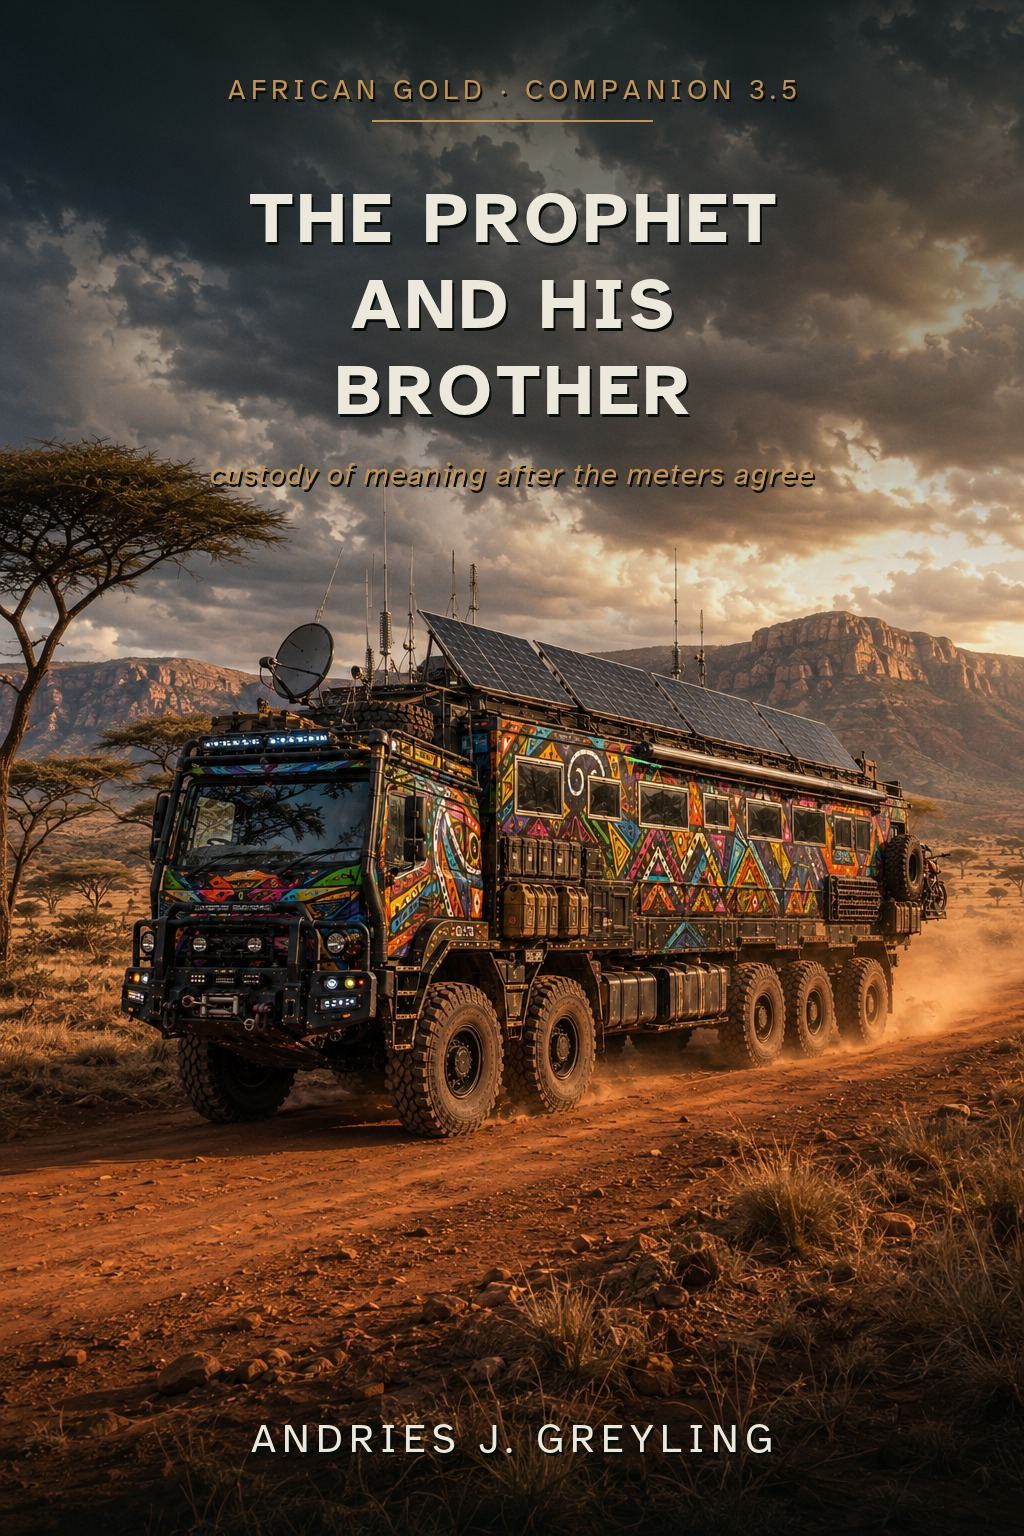
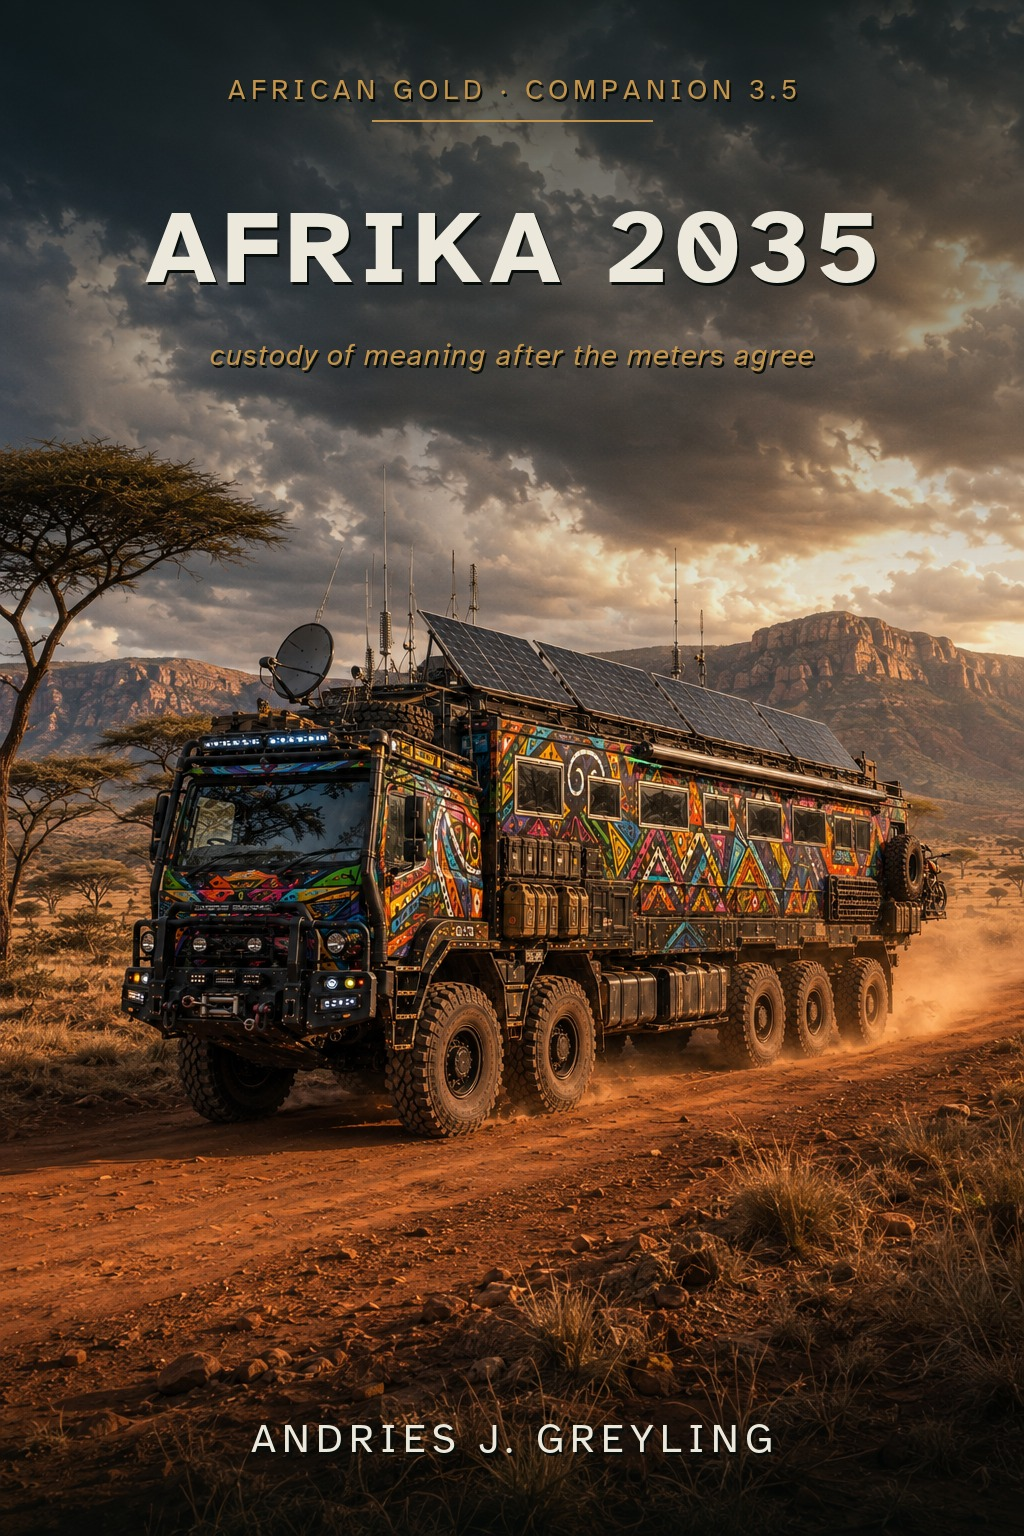
retitle: The Prophet and his Brother -> Afrika 2035
Author decision. The old phrase now names the book's relation — G the prophet,
AJ the brother — rather than the book.

CORRECTS THE RECORD: cd565b0's message claimed "*Afrika 2035* stayed a working
title and never reached the deliverable's metadata." The file observation behind
that was true (dc:title still reads the old name) but the conclusion drawn from
it — that the retitle had been abandoned — was an inference about intent, and it
was wrong. The retitle is real; the exports had simply not caught up.

Scope — display title only. The id/slug stays `the-prophet-and-his-brother` by
author decision, so no live URL, download path or inbound link breaks. The old
name therefore persists in paths by design, not by drift.

  site/build.py     CURATED title, series blurb, living-person care note
  project.json      title/working_title; retitle + slug rationale in notes
  README.md         retitled, with the export caveat below stated up front
  canon (10 files)  headers + C-01 title lock, which now records the change
  afrika-2100 (8)   downstream refs — this book is its declared upstream soil
  cover             re-rendered as AFRIKA 2035

Two things deliberately NOT renamed:

1. Bare "Prophet". In canon it also names G the character ("Prophet soil rule"),
   so only the full italicised title was replaced — never the bare word.
2. The EPUB/PDF. Left wholly on the old title — filename, dc:title and internal
[…]

Changed region(s): [[0.125, 0.125, 0.875, 0.3438], [0.7188, 0.2812, 0.7812, 0.3438]]

diff --git a/site/build.py b/site/build.py
@@ -714,7 +714,7 @@ SERIES = [
 # the house voice; keyed by the SERIES name. Absent name => no tagline (heading only).
 SHELF_TAGLINE = {
     "Captain Gideon Loots": "⚠ For adult readers. Cape crime — a disgraced detective and the charming men he understands too well.",
-    "The African Gold Trilogy": "Resonance, Revelation, Relic — plus Companion 3.5 (*The Prophet and his Brother*, 2035) and the spiritual fourth (*AFRIKA 2100*).",
+    "The African Gold Trilogy": "Resonance, Revelation, Relic — plus Companion 3.5 (*Afrika 2035*) and the spiritual fourth (*AFRIKA 2100*).",
     "History Before Time": "Novelised ancient mysteries, one continent per book — the ancients were brilliant, and they were ours.",
     "Not a Potato": "Anomalies told straight: the official story, the one hole in it, and the wink.",
     "The Unheard": "Displaced and overlooked living peoples, told in the spirit of the road — each culture researched and named with care, sacred matter kept at the threshold; community sensitivity readers are warmly invited to write to us.",
@@ -761,7 +761,7 @@ BOOK_TAGLINE = {
 # own front matter (henry-sugar, the-dreaming, no-fear-cycle) don't need an entry here.
 BOOK_NOTICE = {
     "the-prophet-and-his-brother": (
-        "<strong>Living-person care.</strong> <em>The Prophet and his Brother</em> draws "
+        "<strong>Living-person care.</strong> <em>Afrika 2035</em> draws "
         "Andries J. Greyling and Gerhard van Niekerk as fiction principals from life. "
         "Public record binds where cited (including the assassination of Bouwer van Niekerk, "
         "Saxonwold, 5 September 2025 — named as wound, not solved as plot). Private pain stays "
@@ -897,7 +897,7 @@ CURATED = [
     ("relic", "RELIC", "The African Gold Trilogy · Book III", "The African Gold Trilogy",
      "relic", "build/export",
      "An engineer reads an ancient machine and must decide who may switch it on. The cinematic capstone of the trilogy."),
-    ("the-prophet-and-his-brother", "The Prophet and his Brother",
+    ("the-prophet-and-his-brother", "Afrika 2035",
      "An African Gold Companion · Book 3.5 · 2035", "The African Gold Trilogy",
      "the-prophet-and-his-brother", "build/export",
      "Between RELIC and AFRIKA 2100: on the Chobe in 2035, AJ writes the autobiography of G while Lucid has made that degree-less ignored physicist famous and crashed the AI GPU bubble — a book within a book under four-quarter weather, hyperscaler salvage frost, and the Kind sentence on the walls."),

diff --git a/books/the-prophet-and-his-brother/design/make_cover.py b/books/the-prophet-and-his-brother/design/make_cover.py
@@ -1,5 +1,7 @@
 #!/usr/bin/env python3
-"""Typeset *The Prophet and his Brother* cover from design/cover-plate.png.
+"""Typeset the *Afrika 2035* cover from design/cover-plate.png.
+
+Retitled 2026-08-13 (was *The Prophet and his Brother*).
 
 Eyebrow + title + author on river/Mutatus plate. Writes design/cover.{png,jpg}
 and build/export/cover.{png,jpg}.
@@ -88,12 +90,19 @@ def main() -> None:
     rule_y = int(H * 0.05) + 44
     draw.line([(cx - 140, rule_y), (cx + 140, rule_y)], fill=ACCENT, width=2)
 
-    f_title = font(ATK_BOLD, 72)
-    lines = ["THE PROPHET", "AND HIS", "BROTHER"]
-    ty = int(H * 0.12)
-    lh = 86
+    # Single-line title, matching its shelf sibling AFRIKA 2100. Auto-fit so the
+    # line always clears the margins rather than trusting a hand-tuned size.
+    lines = ["AFRIKA 2035"]
+    size, tracking = 104, 6
+    while size > 40:
+        f_title = font(ATK_BOLD, size)
+        if max(text_width(draw, ln, f_title, tracking) for ln in lines) <= W * 0.84:
+            break
+        size -= 2
+    ty = int(H * 0.13)
+    lh = int(size * 1.2)
     for i, ln in enumerate(lines):
-        draw_tracked(draw, cx, ty + i * lh, ln, f_title, 4, INK)
+        draw_tracked(draw, cx, ty + i * lh, ln, f_title, tracking, INK)
 
     f_tag = font(ATK_ITAL, 30)
     draw_tracked(

diff --git a/books/the-prophet-and-his-brother/canon/CANON_CHOICES.md b/books/the-prophet-and-his-brother/canon/CANON_CHOICES.md
@@ -1,4 +1,4 @@
-# Canon Choices — *The Prophet and his Brother*
+# Canon Choices — *Afrika 2035*
 
 > **LOCKED** = binding. **OPEN** = may not be written as fact until closed.
 > AFRIKA 2100 rewrite is downstream — do not consult old 2100 locks for this book.
@@ -7,7 +7,7 @@
 
 ## LOCKED
 
-- **C-01 · Title & year.** Title **LOCKED:** *The Prophet and his Brother*; story year **2035**. Former working title *The Four Quarters* retained as the name of the schism engine only (C-04 — the four camps).
+- **C-01 · Title & year.** Title **LOCKED:** *Afrika 2035*; story year **2035**. Retitled 2026-08-13 from *The Prophet and his Brother*, which now names the book's relation (G the prophet, AJ the brother) rather than the book. Earlier working title *The Four Quarters* retained as the name of the schism engine only (C-04 — the four camps). Note the deliberate shelf rhyme with *AFRIKA 2100*, the spiritual fourth: same continent, sixty-five years apart.
 - **C-02 · POV.** Dual **close third** on the outer novel. Two threads only as principals: **AJ** (Andries J. Greyling) and **G** (Gerhard van Niekerk). **AJ is the main subject of the book** — the A-thread gravity. No omniscient overview of the schism; the quarters are encountered through what each man sees, hears, and refuses.
 - **C-02b · Book within a book.** Formal structure, binding: the outer novel is AJ on the Chobe in 2035; inside it runs **the autobiography of G** — the manuscript AJ is writing, which is **the pages of G’s life and work**. Effectively **a book within a book**. The reader receives both: river-desk present (outer) and life/work pages (inner). The inner book is not a paste of Artist’s Proofs; it is autobiography — lived years, desks, kill switches, the ignored shelf, the Constant landing — under AJ’s hand, with Lucid in the choir. AJ does not vanish into ghostwriter anonymity: he remains the main subject of *this* novel while authoring *that* one. The braid: **AJ writes the life; G lives the weather of having a life written** (and of the fame Lucid’s open attribution already caused).
 - **C-02c · How the inner book appears.** Inner-autobiography sections are typographically / structurally distinct from outer AJ present (chapter heads, manuscript cues, or clear section breaks — house craft, not gimmick). Outer AJ may be caught mid-sentence of the inner book; the next section may *be* that page. G’s present-tense schism weather may still appear as outer close third on G (co-principal under pressure) **or** bleed through what AJ is writing that day — lock mix in O-14. Default lean: **both** — outer G-present for 2035 weather; inner autobiography for life-and-work deep pages.

diff --git a/books/the-prophet-and-his-brother/README.md b/books/the-prophet-and-his-brother/README.md
@@ -1,24 +1,35 @@
-# The Prophet and his Brother
+# Afrika 2035
 
 Near-future novel (2035). Book within a book: AJ on the Chobe writes G’s autobiography while the planet splits into four weathers around the man who derived **G**.
 
-Former working title: *The Four Quarters* — kept as the name of the schism engine (the four camps).
+**Retitled 2026-08-13** from *The Prophet and his Brother* — that phrase now names the book's
+relation (G the prophet, AJ the brother), not the book. Earlier working title *The Four Quarters*
+is kept as the name of the schism engine (the four camps).
+
+The **id/slug stays `the-prophet-and-his-brother`** by author decision, so no live URL breaks.
+Expect the old name in paths, the download folder and the export filenames; that is deliberate,
+not drift.
 
 ## Status
 
 **PUBLISHED** as **African Gold Companion · Book 3.5** (between RELIC and AFRIKA 2100) · ~90k ·
 live on arjunabadger.press.
 
-Briefly held (`3e773bf`, 2026-08-13) for a retitle to *Afrika 2035* and a re-edit, then released
-the same day by explicit author decision once the re-edited exports landed. The title did not
-change — *Afrika 2035* stayed a working title. `WORKSHOP_HOLD` is now empty; re-adding the id is
-the one-line way to pull the book dark again (then run the full deploy loop — nothing changes on
-the live site until Render redeploys).
+Briefly held (`3e773bf`, 2026-08-13) for the retitle and a re-edit, then released the same day by
+explicit author decision once the re-edited exports landed. Note that hold never reached
+production — it was committed but no deploy followed, so the book stayed publicly downloadable
+throughout. `WORKSHOP_HOLD` is now empty; re-adding the id is the one-line way to pull the book
+dark (then run the full deploy loop — nothing changes live until Render redeploys).
 
 Deliverables (the 2026-08-13 02:48 rebuild — post-edit):
-- `build/export/The Prophet and his Brother.epub`
-- `build/export/The Prophet and his Brother.pdf`
-- `build/export/cover.png`
+- `build/export/The Prophet and his Brother.epub` ⚠ old title in filename **and** in `dc:title`
+- `build/export/The Prophet and his Brother.pdf` ⚠ same
+- `build/export/cover.png` — retitled *AFRIKA 2035*
+
+⚠ **The exports are not retitled.** They are left wholly on the old title — filename, `dc:title`
+and internal title page together — rather than half-renamed, so the artifact stays self-consistent
+until it can be rebuilt. `arjuna-badger-platform/books/the-prophet-and-his-brother` does not exist,
+so a plain engine resync will not do it; the 02:48 build's origin needs tracking down first.
 
 ## Read first (canon)
 

diff --git a/books/afrika-2100/canon/TIMELINE.md b/books/afrika-2100/canon/TIMELINE.md
@@ -13,7 +13,7 @@
 |---|---|
 | 2026 | **G publishes the 420 Code**, copyleft. Ignored by mainstream; adopted at edges. |
 | ~2027–2029 | **Trilogy events** (RESONANCE → REVELATION → RELIC). Priya at the switch; instrument at Brotherhood-tended threshold, understood first. Public record thin. |
-| **2035** | ***The Prophet and his Brother.*** 420 Code worldwide as unified theory; Constant G converging in CODATA. AJ on Chobe in Mutatus Maximus; Lucid (integer, no GPU) open-attributed to 420 algorithms — fame as beam. Four Quarters weather; Kind paint (***Don’t be a cunt — be kind***); CongoSky already embodied the ethic as ops. Consent week: CongoNet keep · Lucid unbound · autobiography ships under **partial** rails; G refuses crowns / keyring-sacrament; weather undefeated. |
+| **2035** | ***Afrika 2035.*** 420 Code worldwide as unified theory; Constant G converging in CODATA. AJ on Chobe in Mutatus Maximus; Lucid (integer, no GPU) open-attributed to 420 algorithms — fame as beam. Four Quarters weather; Kind paint (***Don’t be a cunt — be kind***); CongoSky already embodied the ethic as ops. Consent week: CongoNet keep · Lucid unbound · autobiography ships under **partial** rails; G refuses crowns / keyring-sacrament; weather undefeated. |
 | 2030s–2050s | Quiet dissemination of Assist/Guardian → storage; G’s stack through Global South; Court lineage under consent doctrine. Kind practice spreads; soft churches begin putting faces above the sentence (saint-hunger fossil begins). |
 | 2043 | Personhood Recognition Act (SA first). |
 | **2058** | **G dies**, Eastern Cape — respected in field, not yet civilisation-saint. Crowns he refused start returning as myth. |

diff --git a/books/afrika-2100/canon/STORY_BIBLE.md b/books/afrika-2100/canon/STORY_BIBLE.md
@@ -1,6 +1,6 @@
 # Story Bible — AFRIKA 2100
 
-> Binding architecture. Rebuilt from *The Prophet and his Brother* soil. Other canon files
+> Binding architecture. Rebuilt from *Afrika 2035* soil. Other canon files
 > elaborate; open items live in [`CANON_CHOICES.md`](CANON_CHOICES.md). Where Prophet and the
 > old 2100 draft conflict, **Prophet soil wins** unless a LOCKED choice below explicitly keeps
 > trilogy physics.
@@ -10,7 +10,7 @@
 ## D1 — What this book is
 
 The **spiritual fourth** of the African Gold trilogy. Standalone novel, set in **2100**, seventy
-years downstream of *RELIC*, sixty-five years downstream of *The Prophet and his Brother*. Not a
+years downstream of *RELIC*, sixty-five years downstream of *Afrika 2035*. Not a
 continuation of Priya’s quest alone — the story of the world her choice *and* the 2035 consents
 built, facing the question those decades deferred. Series label: **"An African Gold novel · The
 spiritual fourth."**

diff --git a/books/afrika-2100/canon/SEED_STORY.md b/books/afrika-2100/canon/SEED_STORY.md
@@ -42,7 +42,7 @@ the easy wrongs, ink the costly ones, leave the weather undefeated.
 
 The first Afrika 2100 pass was flat: discrepancy → evidence chase → conference. Institutions
 without itch. Saints without Bouwer. Fold without Kind paint. Consent without a desk that
-hurts. *The Prophet and his Brother* is the human decade — loud vindication, four weathers,
+hurts. *Afrika 2035* is the human decade — loud vindication, four weathers,
 partial authorisation, knives across distance, node still lit. **Rebuild 2100 from what that
 book made true.** Do not protect old 2100 locks that sand the humans into architecture.
 

diff --git a/books/afrika-2100/canon/CHAPTER_LEDGER.md b/books/afrika-2100/canon/CHAPTER_LEDGER.md
@@ -1,7 +1,7 @@
 # Chapter Ledger — AFRIKA 2100 (draft map)
 
 > **STATUS: SUPERSEDED PENDING REDRAFT (2026-08).** Spine / arcs / acts rebuilt from
-> *The Prophet and his Brother* soil — see [`SEED_STORY.md`](SEED_STORY.md),
+> *Afrika 2035* soil — see [`SEED_STORY.md`](SEED_STORY.md),
 > [`PLOT.md`](PLOT.md), [`CANON_CHOICES.md`](CANON_CHOICES.md) C-14/C-15. The 23 chapters in
 > `build/chapters/` and compiled `build/BOOK.md` are **stale salvage**: keep for texture,
 > plants, and lines worth stealing; do **not** treat the table below as binding beat law where

diff --git a/books/afrika-2100/canon/PLOT.md b/books/afrika-2100/canon/PLOT.md
@@ -1,6 +1,6 @@
 # Plot — AFRIKA 2100 (act skeleton)
 
-> Rebuilt from *The Prophet and his Brother* soil (2035). Old act map was discrepancy → chase →
+> Rebuilt from *Afrika 2035* soil (2035). Old act map was discrepancy → chase →
 > conference: competent and soulless. This map keeps the engineering payload (C-07) and the
 > clock (Great Renewal) but runs **Prophet grammar**: weathers not cartoons; concrete asks that
 > cost; midpoint = both refuse easy wrongs with no relief; climax = consent week, desk-shaped at

diff --git a/books/afrika-2100/canon/CANON_CHOICES.md b/books/afrika-2100/canon/CANON_CHOICES.md
@@ -1,7 +1,7 @@
 # Canon Choices — AFRIKA 2100
 
 > Decision ledger. **LOCKED** = binding. **OPEN** = may not be written as fact until closed.
-> **Prophet soil rule:** where this file conflicts with *The Prophet and his Brother* (2035) on
+> **Prophet soil rule:** where this file conflicts with *Afrika 2035* (2035) on
 > G’s life, Kind→Fold lineage, or consent grammar, **Prophet wins** unless an entry below
 > explicitly keeps trilogy physics. Old first-draft prose is salvage, not lock.
 

diff --git a/books/afrika-2100/canon/CHARACTERS.md b/books/afrika-2100/canon/CHARACTERS.md
@@ -1,6 +1,6 @@
 # Characters — AFRIKA 2100
 
-> Binding cast. Arcs rebuilt from *The Prophet and his Brother* grammar: wants/fears that cost,
+> Binding cast. Arcs rebuilt from *Afrika 2035* grammar: wants/fears that cost,
 > concrete asks, refuse easy wrongs, consent as posture, weather undefeated. Two POVs
 > (STORY_BIBLE D3). Distinguish by **domain and rhythm**. Trilogy elders in scene, never camera.
 

diff --git a/books/the-prophet-and-his-brother/canon/CHAPTER_LEDGER.md b/books/the-prophet-and-his-brother/canon/CHAPTER_LEDGER.md
@@ -1,4 +1,4 @@
-# Chapter Ledger — *The Prophet and his Brother*
+# Chapter Ledger — *Afrika 2035*
 
 > Binding map. **A** = outer AJ (close third, Chobe / Mutatus). **I** = inner autobiography (G’s life/work under AJ’s hand; default first-person life voice). **G** = outer G-present (close third, Studio / weather).
 > Target ~90k · ~24 chapters · braid by manuscript, not shared room.
